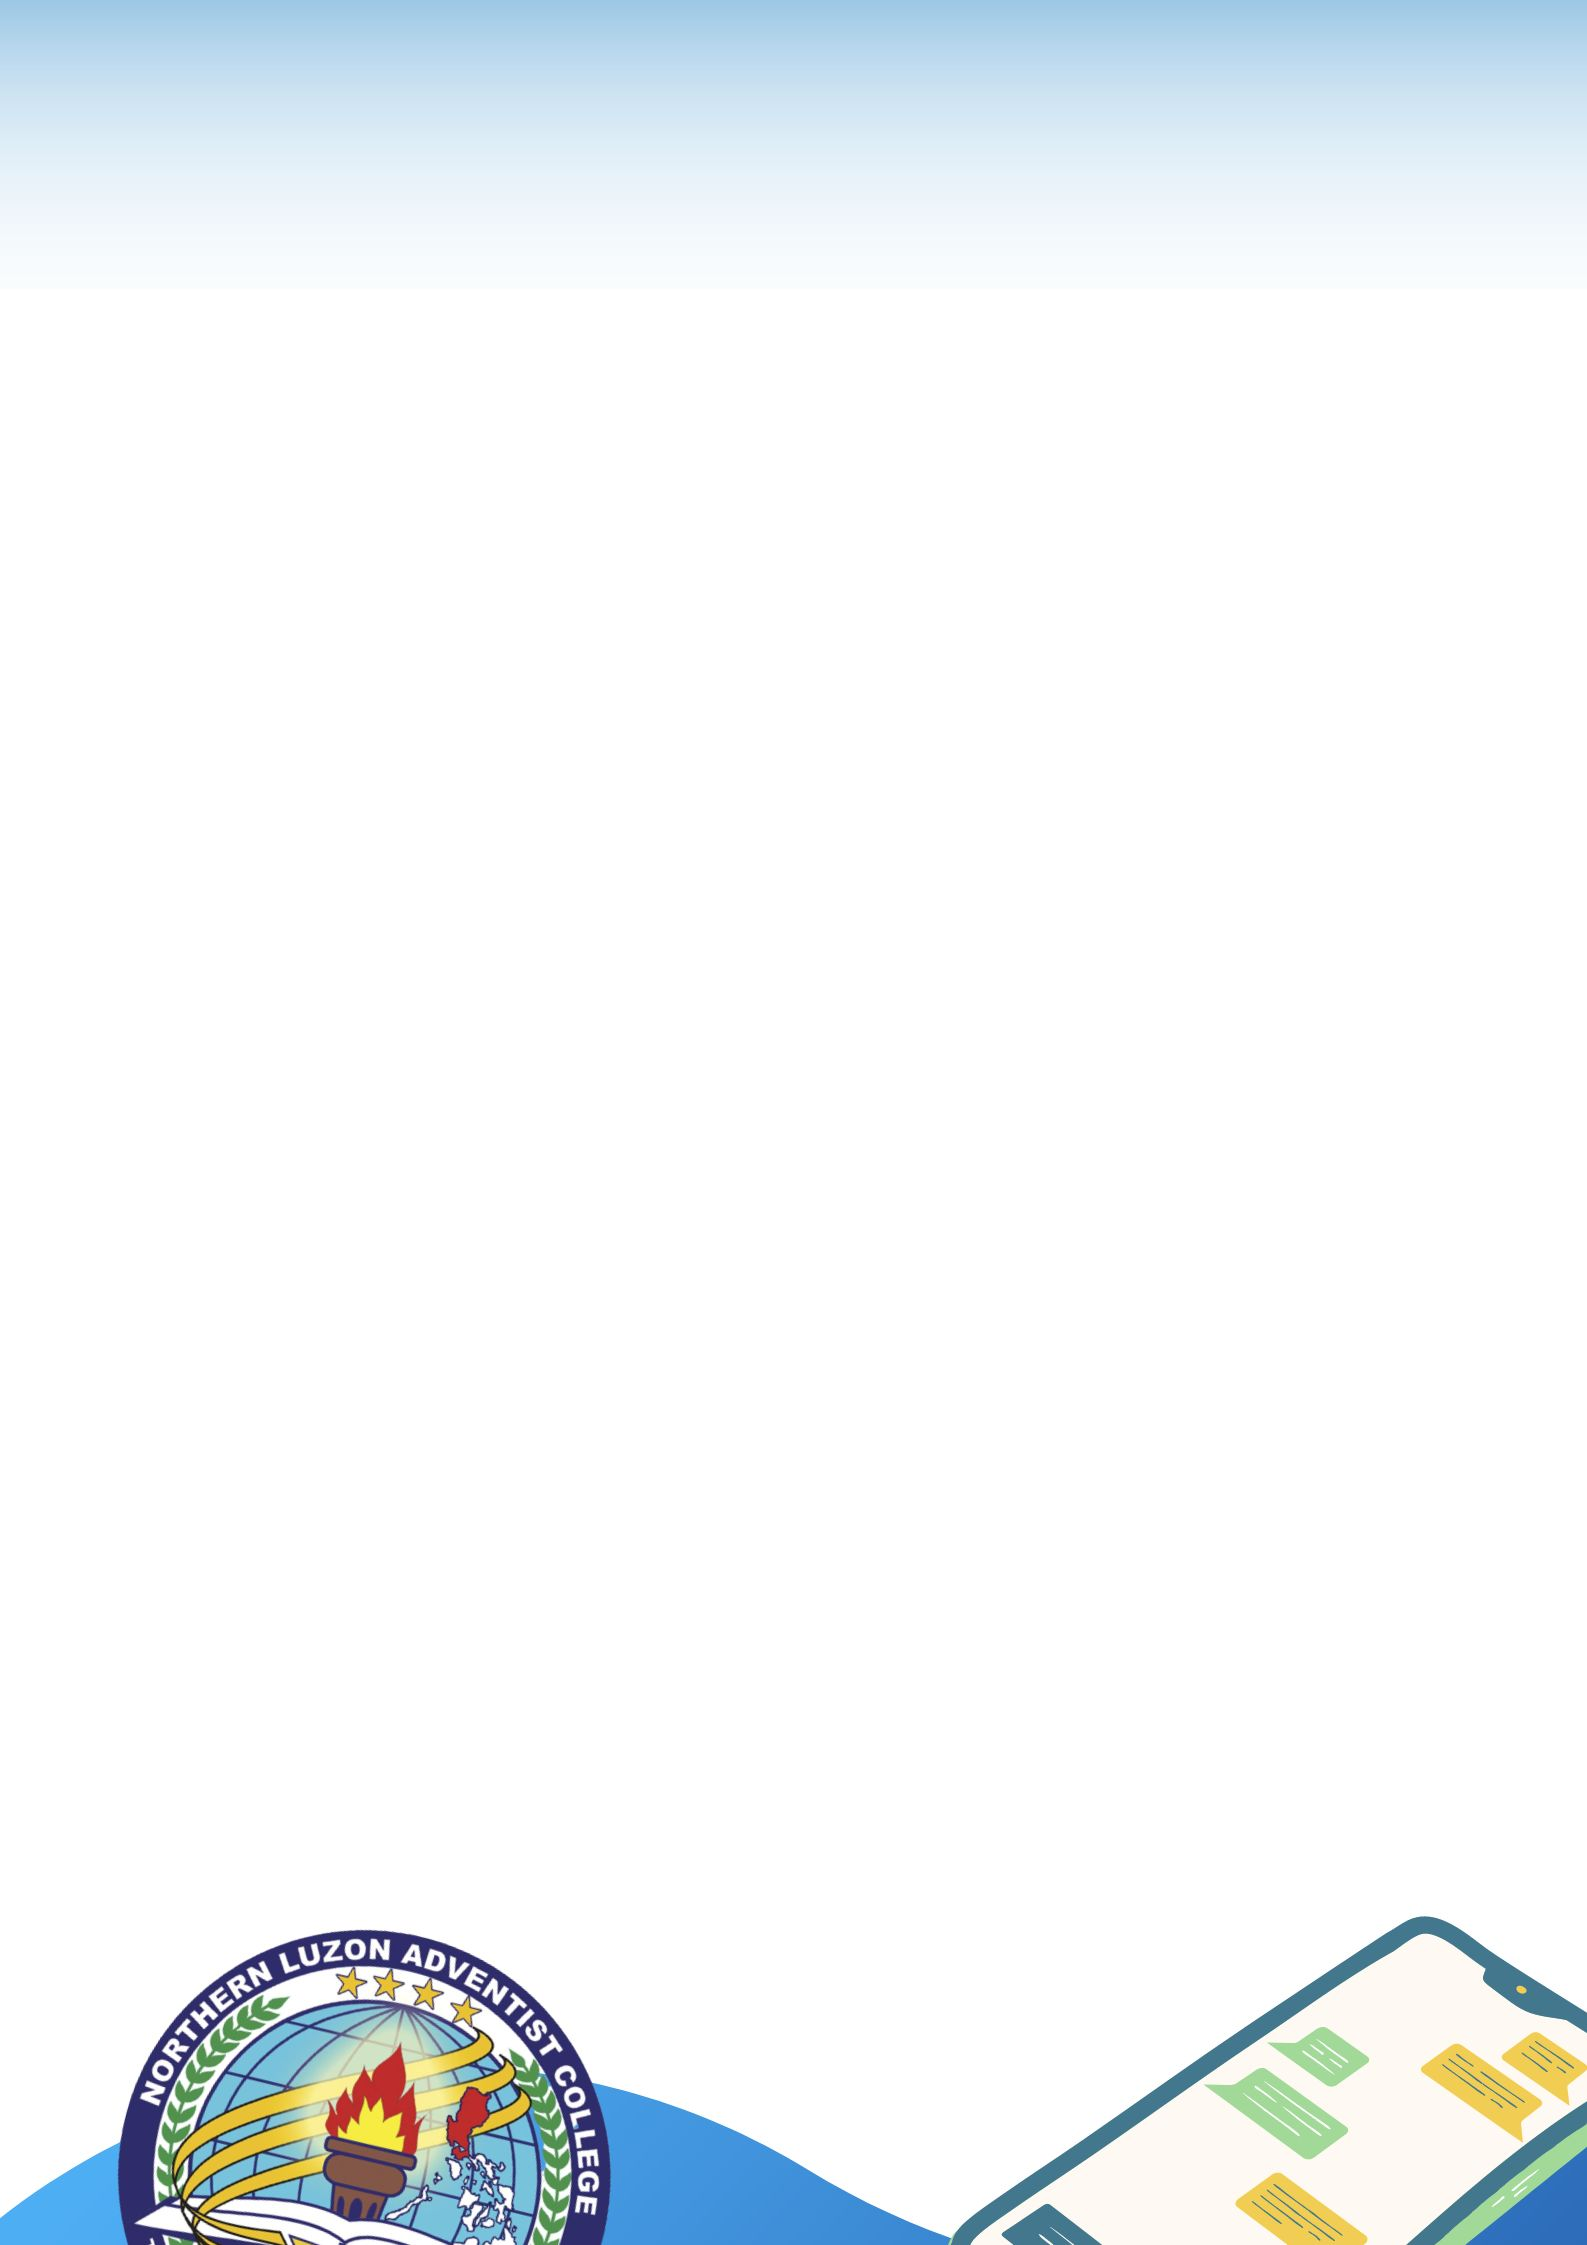
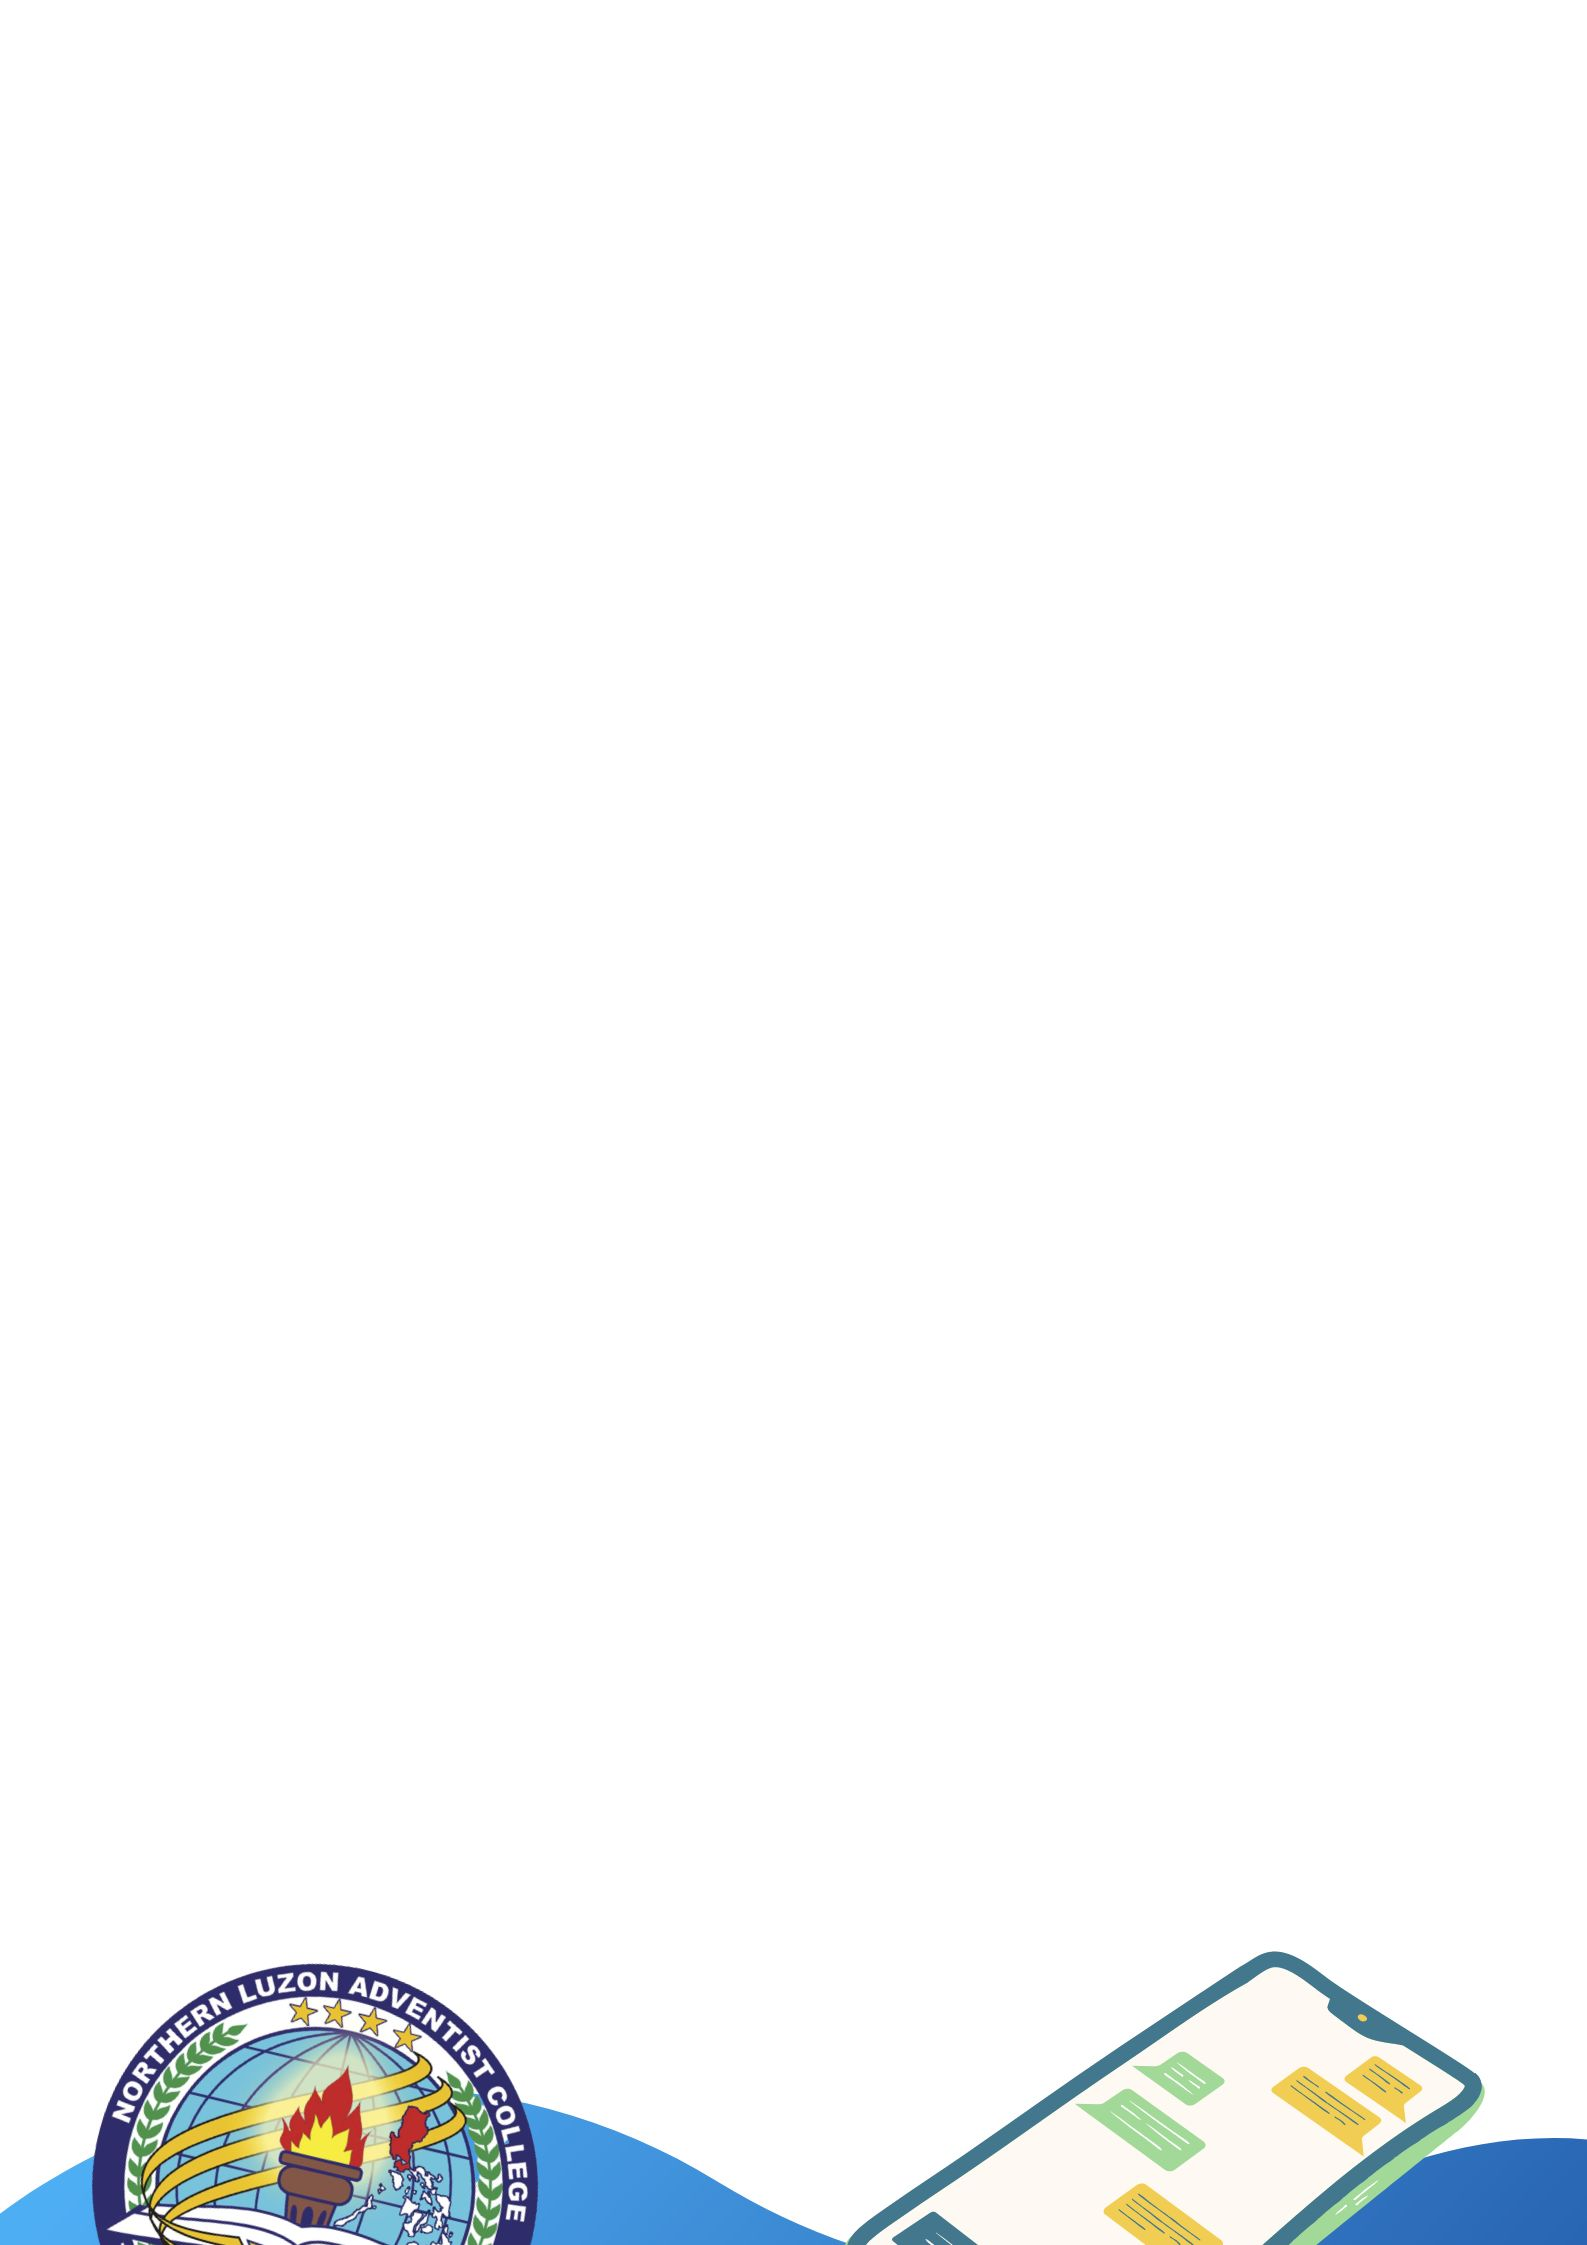
07-22-23 : 10:61 PM

Changed region(s): [[0.0309, 0.8419, 1.0, 1.0], [0.0, 0.0, 1.0, 0.0935]]

diff --git a/style.css b/style.css
@@ -1,19 +1,10 @@
 .img {
-  height: auto;
-  padding-top: 3rem;
+
   background-image: url("KAPE.jpg");
   background-size: cover;
   background-position: center center;
   background-color: #456390;
 }
-/* 
-@media only screen and (max-width: 991px) {
-  .img {
-    padding-top: 1rem;
-    height: auto;
-}
-} */
-
 
 .img2 {
   background-image: url("kape3.jpg");
